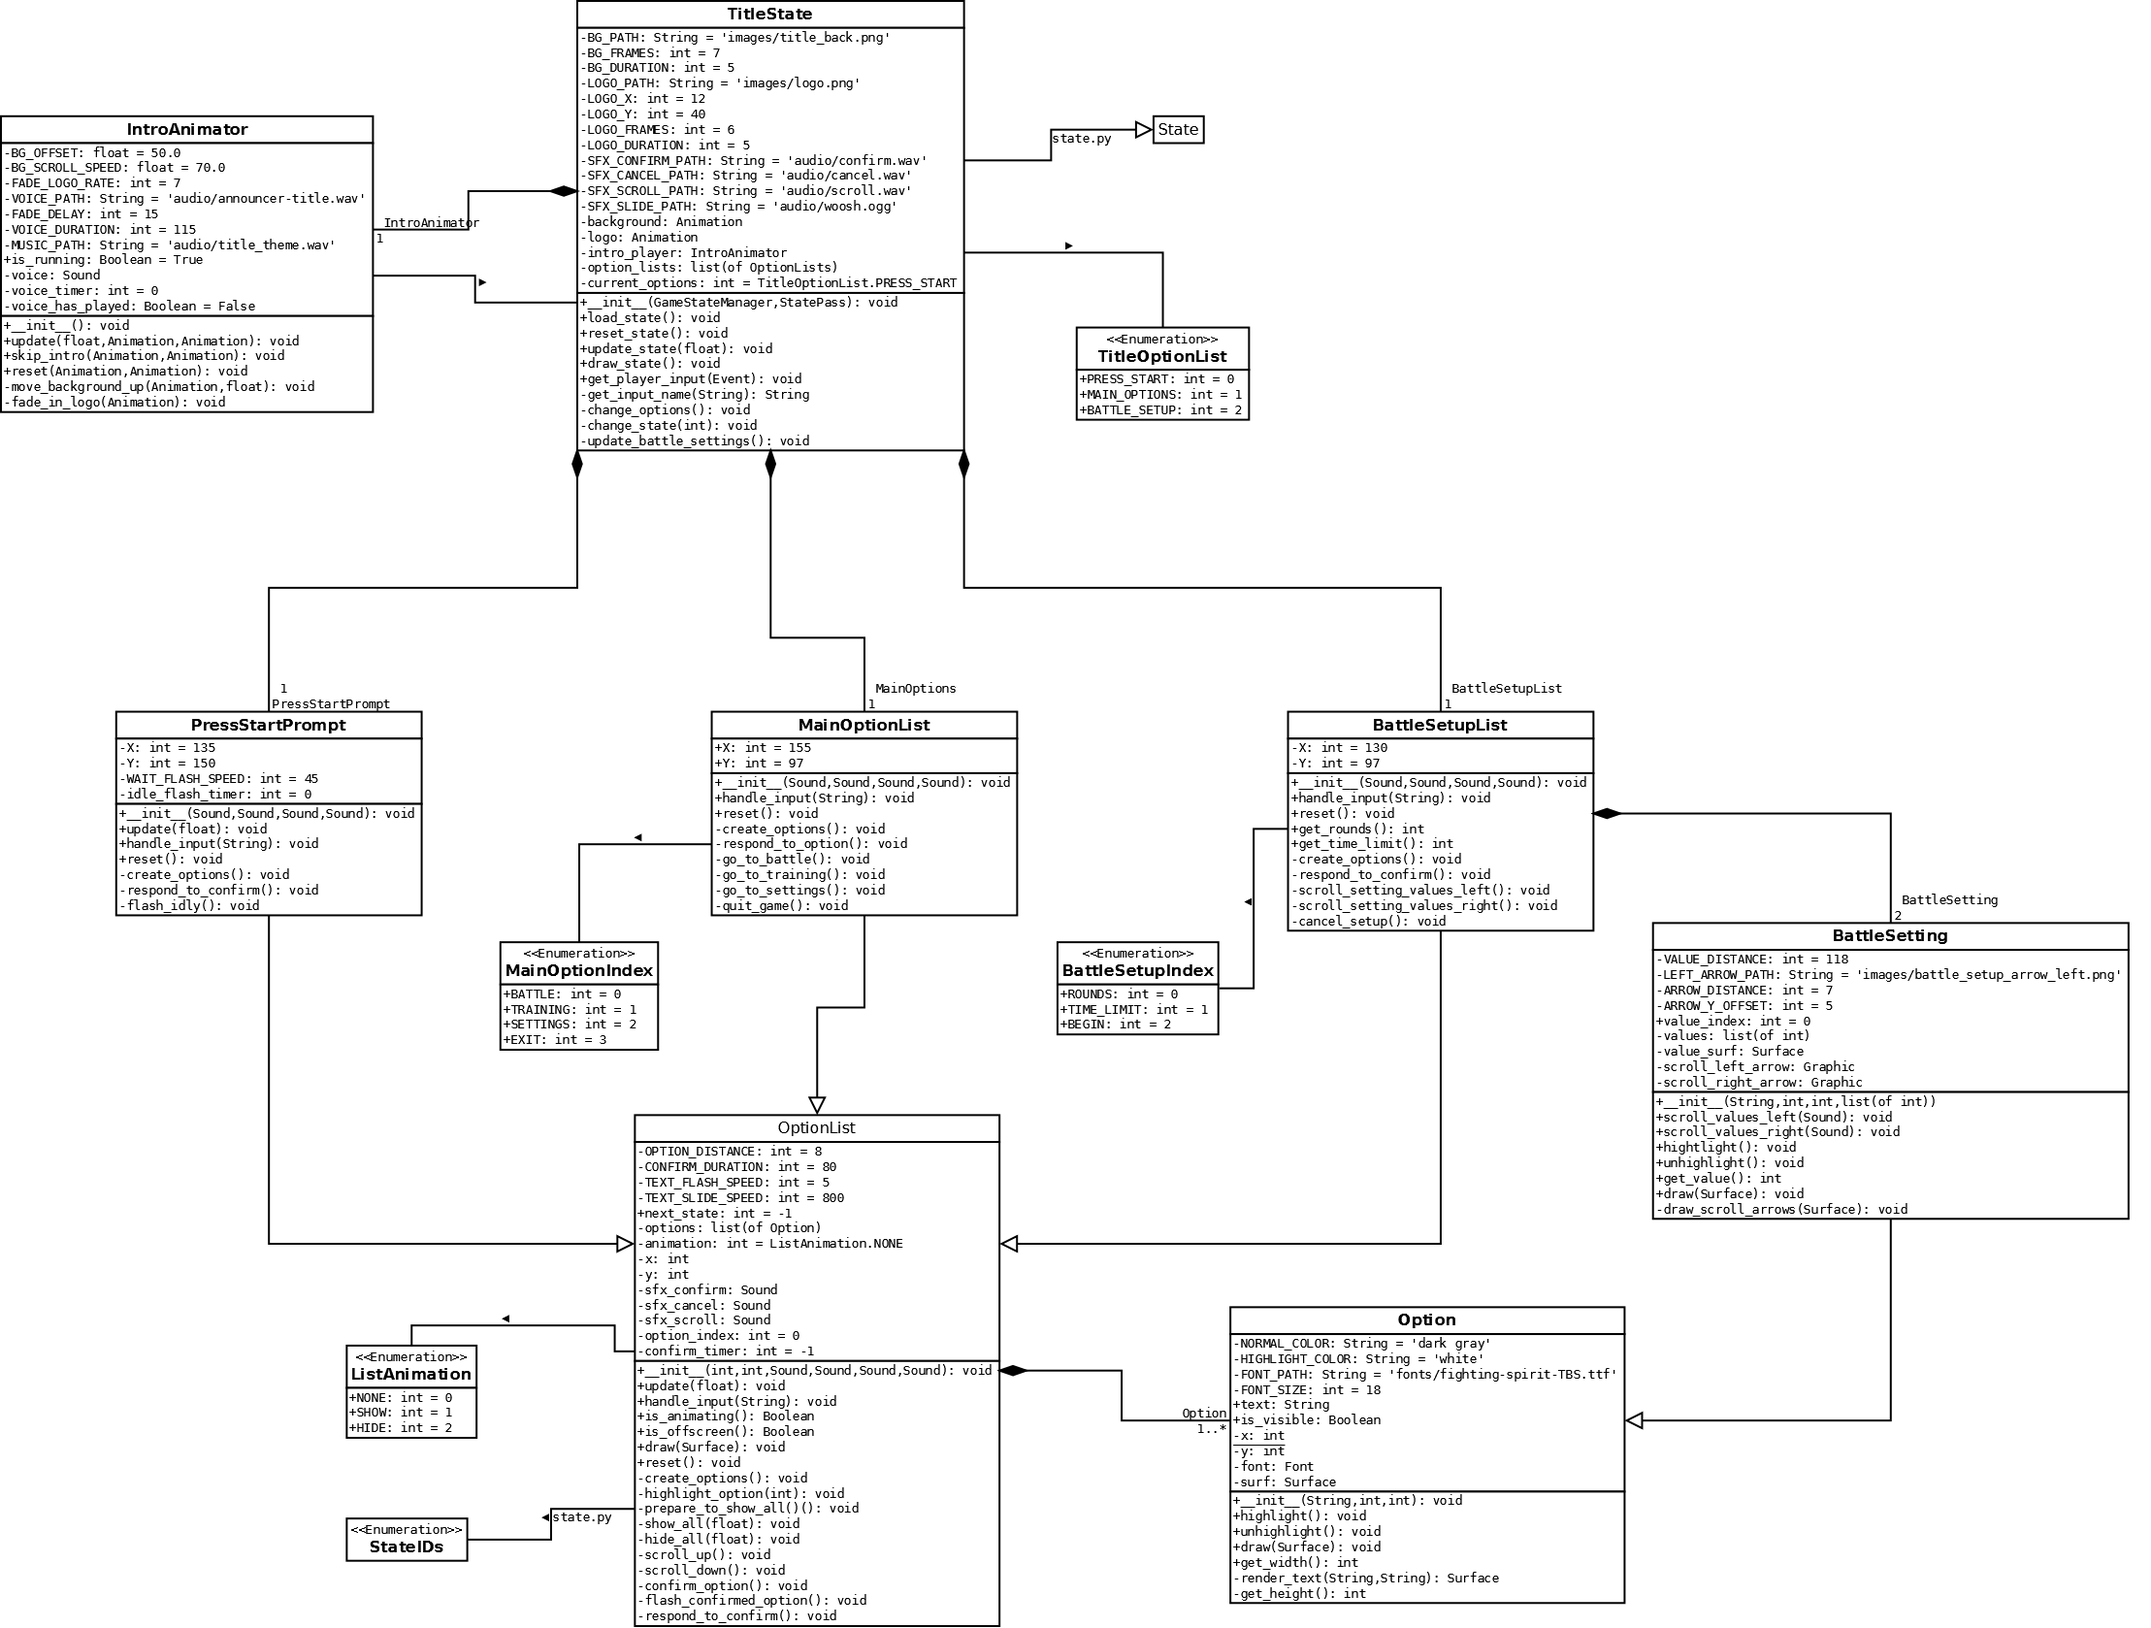
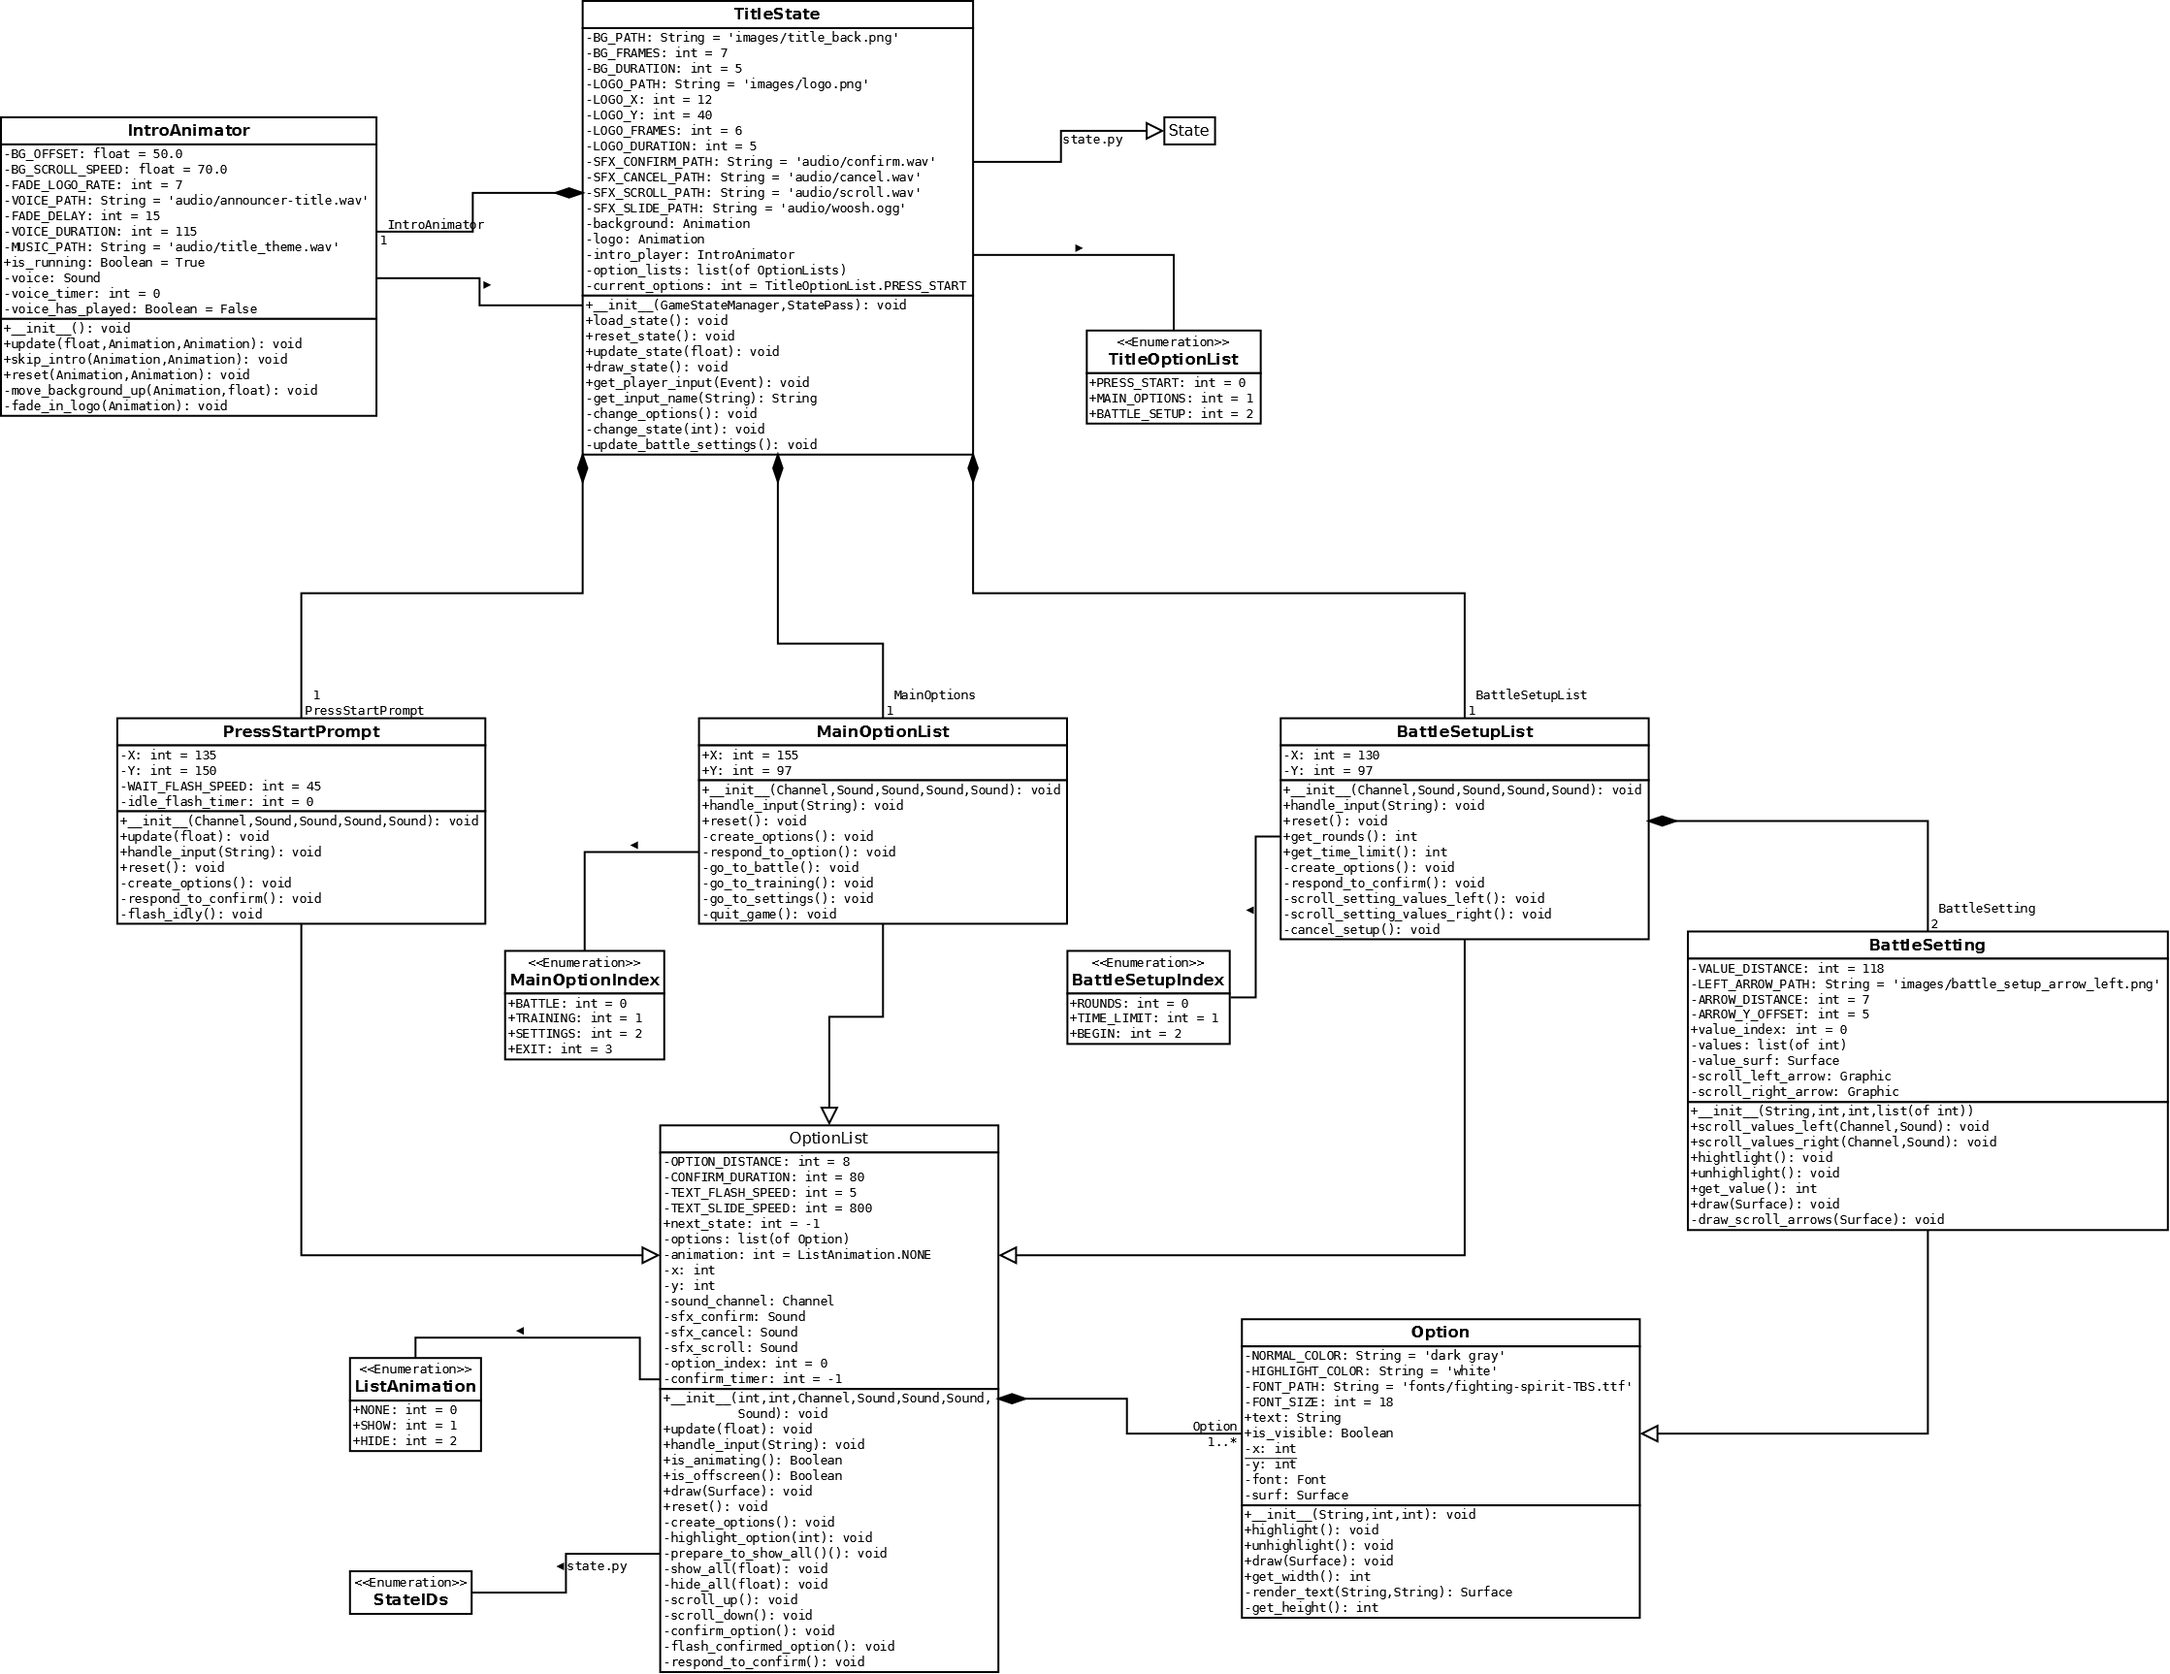
Add Channel attr/args->OptionLists/IntroAnimator
They will be passed by TitleState using the Channels pre-defined in the
StatePass instance.

diff --git a/lib/game_states/title_state.py b/lib/game_states/title_state.py
@@ -262,7 +262,7 @@ class IntroAnimator(object):
         self.voice_timer = 0
         self.voice_has_played = False
 
-    def update(self, time, bg, logo):
+    def update(self, time, bg, logo, sound_channel):
         """Update the animation's processes.
 
         The animation will proceed as follows:
@@ -278,6 +278,8 @@ class IntroAnimator(object):
                 last update cycle.
             bg: The Title Screen's background Animation.
             logo: The game logo Animation.
+            sound_channel: The PyGame Channel that will be used to
+                play the announcer's voice.
         """
         if bg.exact_pos[1] > 0.0:
             self.move_background_up(bg, time)
@@ -322,12 +324,14 @@ class IntroAnimator(object):
         old_alpha = logo.image.get_alpha()
         logo.image.set_alpha(old_alpha + self.FADE_LOGO_RATE)
 
-    def skip_intro(self, bg, logo):
+    def skip_intro(self, bg, logo, sound_channel):
         """Skip to the end of animation immediately.
 
         Args:
             bg: The Title Screen's background Animation.
             logo: The game logo Animation.
+            sound_channel: The PyGame Channel that will be used to
+                play the announcer's voice.
         """
         if not self.voice_has_played:
             self.voice.play()
@@ -384,6 +388,8 @@ class OptionList(object):
         options: A list of Options.
         option_index: The index of the Option currently being
             highlighted by the players.
+        sound_channel: A PyGame Channel that will be used by this
+            OptionList to play sound effects.
         x: An integer coordinate for the OptionList's x-position
             relative to the screen.
         y: An integer coordinate for the OptionList's y-position
@@ -409,8 +415,8 @@ class OptionList(object):
     TEXT_FLASH_SPEED = 5
     TEXT_SLIDE_SPEED = 800
 
-    def __init__(self, x, y, sfx_confirm, sfx_cancel, sfx_scroll,
-                 sfx_slide):
+    def __init__(self, x, y, channel, sfx_confirm, sfx_cancel,
+                 sfx_scroll, sfx_slide):
         """Declare and initialize instance variables.
 
         Args:
@@ -424,6 +430,7 @@ class OptionList(object):
         """
         self.x = x
         self.y = y
+        self.sound_channel = channel
         self.sfx_confirm = sfx_confirm
         self.sfx_cancel = sfx_cancel
         self.sfx_scroll = sfx_scroll
@@ -682,7 +689,8 @@ class PressStartPrompt(OptionList):
     Y = 150
     WAIT_FLASH_SPEED = 45
 
-    def __init__(self, sfx_confirm, sfx_cancel, sfx_scroll, sfx_slide):
+    def __init__(self, channel, sfx_confirm, sfx_cancel, sfx_scroll,
+                 sfx_slide):
         """Declare and initialize instance variables.
 
         Args:
@@ -690,7 +698,7 @@ class PressStartPrompt(OptionList):
             sfx_cancel: A PyGame Sound for cancelling a decision.
             sfx_scroll: A PyGame Sound for scrolling through the list.
         """
-        super(PressStartPrompt, self).__init__(self.X, self.Y,
+        super(PressStartPrompt, self).__init__(self.X, self.Y, channel,
                                                sfx_confirm, sfx_cancel,
                                                sfx_scroll, sfx_slide)
         self.idle_flash_timer = 0
@@ -766,7 +774,8 @@ class MainOptionList(OptionList):
     X = 155
     Y = 104
 
-    def __init__(self, sfx_confirm, sfx_cancel, sfx_scroll, sfx_slide):
+    def __init__(self, channel, sfx_confirm, sfx_cancel, sfx_scroll,
+                 sfx_slide):
         """Declare and initialize instance variables.
 
         Args:
@@ -774,7 +783,7 @@ class MainOptionList(OptionList):
             sfx_cancel: A PyGame Sound for cancelling a decision.
             sfx_scroll: A PyGame Sound for scrolling through the list.
         """
-        super(MainOptionList, self).__init__(self.X, self.Y,
+        super(MainOptionList, self).__init__(self.X, self.Y, channel,
                                              sfx_confirm, sfx_cancel,
                                              sfx_scroll, sfx_slide)
         self.animation = ListAnimation.SHOW
@@ -870,7 +879,8 @@ class BattleSetupList(OptionList):
     X = 130
     Y = 117
 
-    def __init__(self, sfx_confirm, sfx_cancel, sfx_scroll, sfx_slide):
+    def __init__(self, channel, sfx_confirm, sfx_cancel, sfx_scroll,
+                 sfx_slide):
         """Declare and initialize instance variables.
 
         Args:
@@ -878,7 +888,7 @@ class BattleSetupList(OptionList):
             sfx_cancel: A PyGame Sound for cancelling a decision.
             sfx_scroll: A PyGame Sound for scrolling through the list.
         """
-        super(BattleSetupList, self).__init__(self.X, self.Y,
+        super(BattleSetupList, self).__init__(self.X, self.Y, channel,
                                               sfx_confirm, sfx_cancel,
                                               sfx_scroll, sfx_slide)
         self.animation = ListAnimation.SHOW
